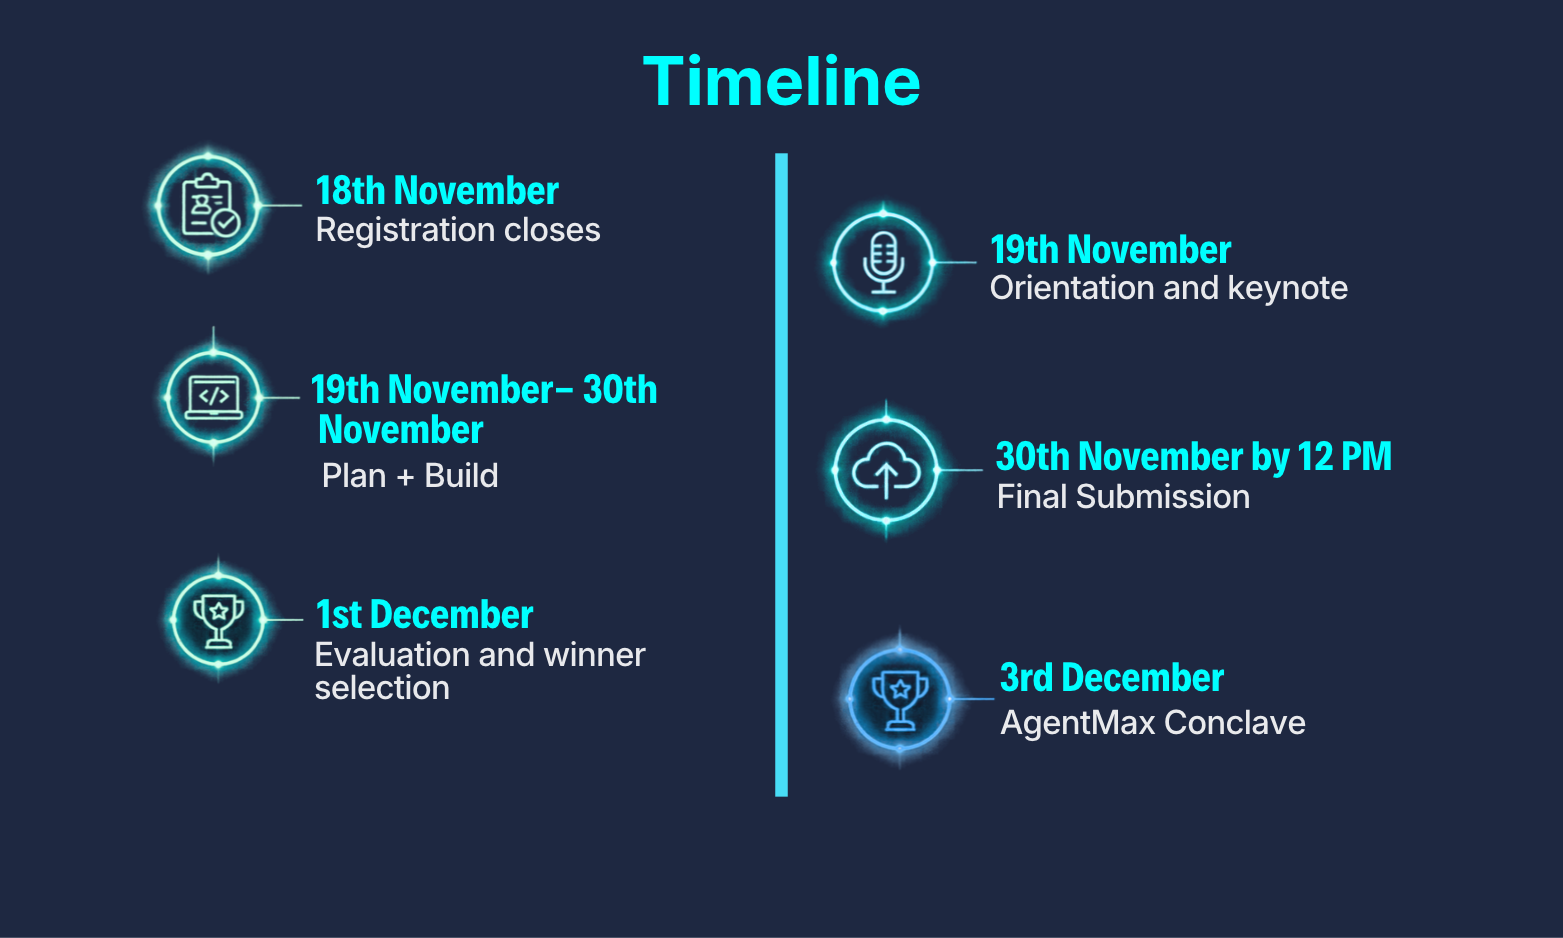
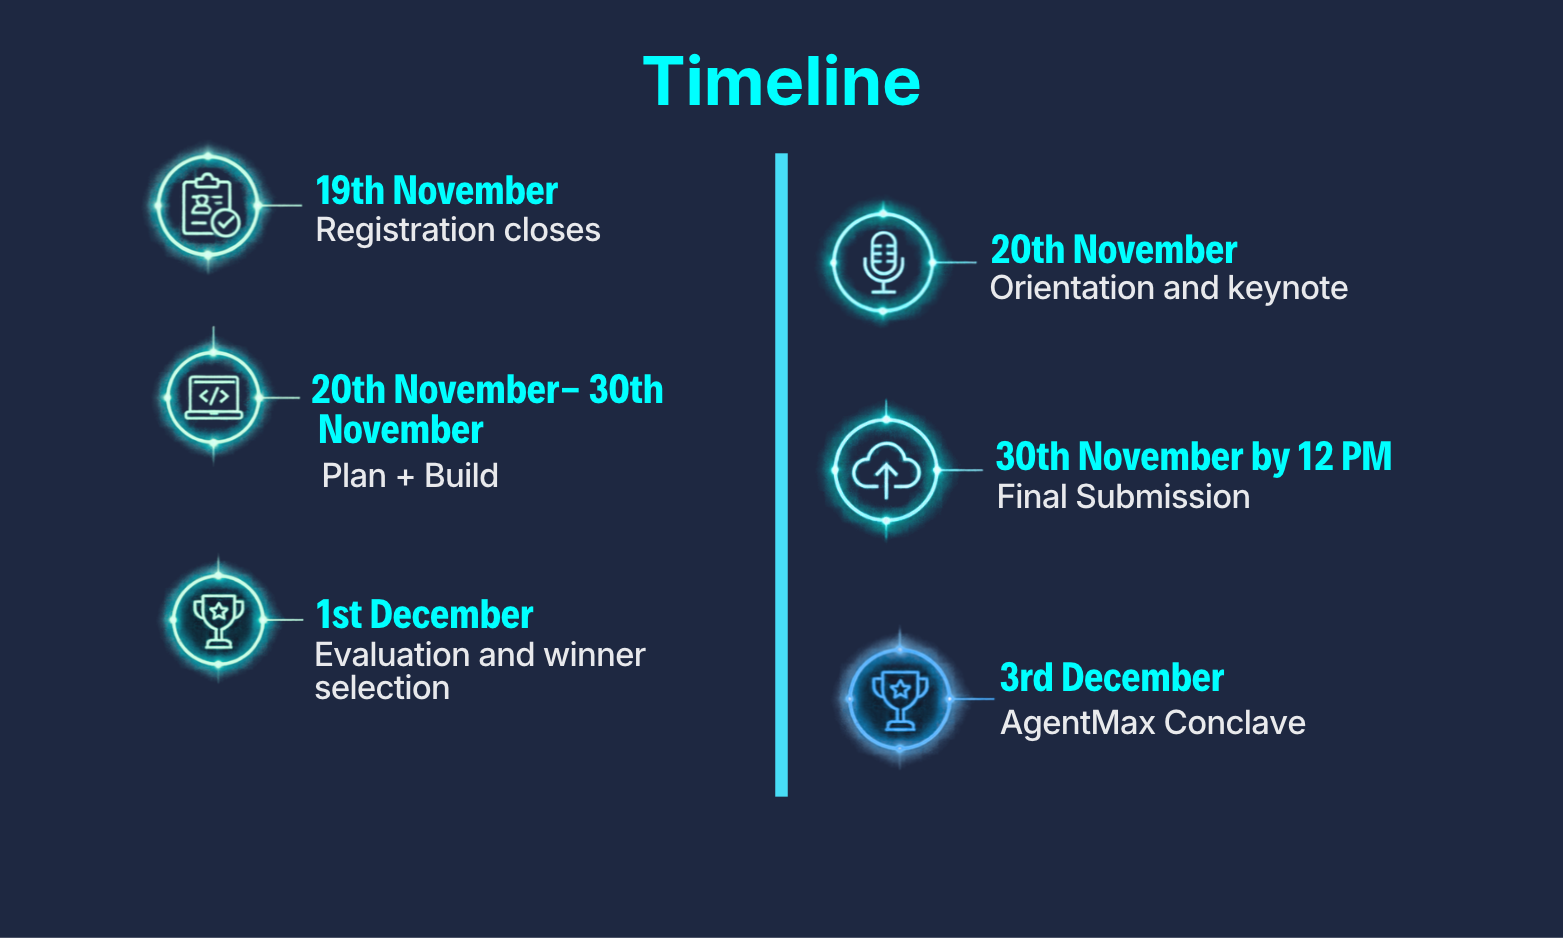
Update timeline image and wire up registration link

Changed region(s): [[0.1843, 0.4019, 0.4299, 0.4328], [0.6142, 0.2473, 0.7985, 0.2783], [0.215, 0.1855, 0.3685, 0.2164]]

diff --git a/src/App.tsx b/src/App.tsx
@@ -167,7 +167,9 @@ function Hero() {
         </div>
 
         <a
-          href="#register"
+          href="https://imjo.in/mCDt52"
+          target="_blank"
+          rel="noopener noreferrer"
           className="mt-16 rounded-full border border-white/70 px-10 py-4 text-sm font-semibold tracking-wide text-white transition-colors hover:bg-white hover:text-[#060b14]"
         >
           Register Now
